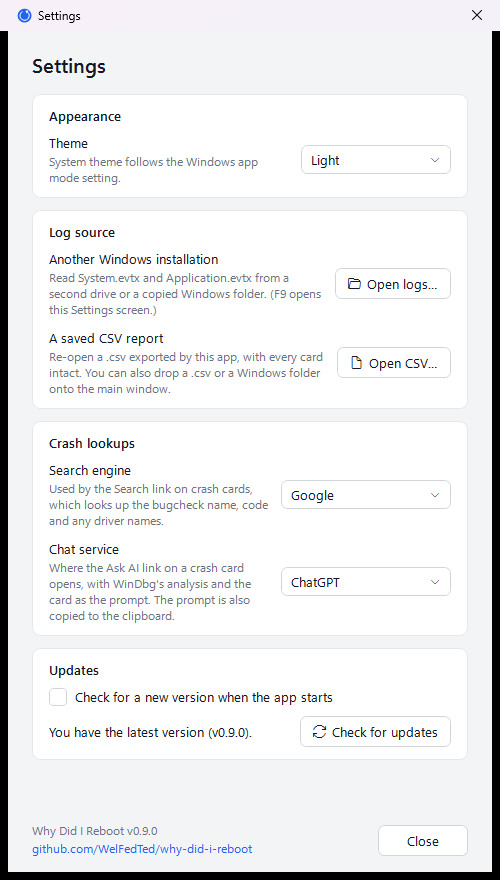
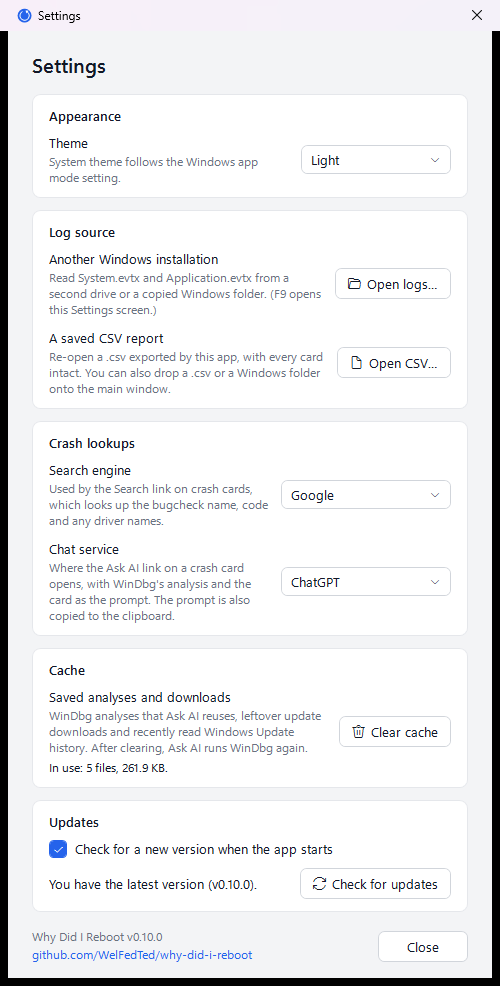
Add Clear cache to Settings
A new Cache section above Updates shows how much the app has cached and
a Clear cache button removes it:
- saved WinDbg analyses in every folder Ask AI may have used (Public,
  ProgramData, Temp, C:\), so Ask AI runs WinDbg again for each dump
- update downloads left in %TEMP%\WhyDidIReboot-update
- the in-memory Windows Update history (normally kept 10 minutes)
then reloads the list so cards are rebuilt with fresh update details.
Files still open (WinDbg writing a log) are kept and counted. The button
is disabled while Ask AI, an update or a load is running.

AppCache in Core does the measuring and clearing and has tests.
WinDbgLocator.AnalysisDirCandidates now lists the fallback folders for
both AnalysisWorkDir and the cache.

The Settings window sizes to its content, capped at the screen's work
area with the sections scrolling, since the new section made it taller
than the old fixed 880 px. README screenshot updated.

diff --git a/src/WhyDidIReboot/SettingsWindow.xaml b/src/WhyDidIReboot/SettingsWindow.xaml
@@ -2,7 +2,7 @@
         xmlns="http://schemas.microsoft.com/winfx/2006/xaml/presentation"
         xmlns:x="http://schemas.microsoft.com/winfx/2006/xaml"
         xmlns:local="clr-namespace:WhyDidIReboot"
-        Title="Settings" Width="500" Height="880" ResizeMode="NoResize" ShowInTaskbar="False"
+        Title="Settings" Width="500" SizeToContent="Height" ResizeMode="NoResize" ShowInTaskbar="False"
         WindowStartupLocation="CenterOwner" Background="{DynamicResource WindowBg}"
         FontFamily="Segoe UI Variable Text, Segoe UI" FontSize="13" TextOptions.TextFormattingMode="Display"
         UseLayoutRounding="True" SnapsToDevicePixels="True">
@@ -18,7 +18,9 @@
 
         <TextBlock Grid.Row="0" Text="Settings" FontSize="20" FontWeight="SemiBold" Foreground="{DynamicResource TextPrimary}" Margin="0,0,0,16"/>
 
-        <StackPanel Grid.Row="1">
+        <!-- Scrolls when the window is capped at the screen height (small screens, high display scaling). -->
+        <ScrollViewer Grid.Row="1" VerticalScrollBarVisibility="Auto" HorizontalScrollBarVisibility="Disabled" Focusable="False">
+        <StackPanel>
             <!-- Appearance -->
             <Border Background="{DynamicResource SurfaceBg}" BorderBrush="{DynamicResource SurfaceBorder}" BorderThickness="1" CornerRadius="8" Padding="16,12" Margin="0,0,0,12">
                 <StackPanel>
@@ -118,6 +120,32 @@
                 </StackPanel>
             </Border>
 
+            <!-- Cache -->
+            <Border Background="{DynamicResource SurfaceBg}" BorderBrush="{DynamicResource SurfaceBorder}" BorderThickness="1" CornerRadius="8" Padding="16,12" Margin="0,0,0,12">
+                <StackPanel>
+                    <TextBlock Text="Cache" FontWeight="SemiBold" Foreground="{DynamicResource TextPrimary}" Margin="0,0,0,10"/>
+                    <Grid>
+                        <Grid.ColumnDefinitions>
+                            <ColumnDefinition Width="*"/>
+                            <ColumnDefinition Width="Auto"/>
+                        </Grid.ColumnDefinitions>
+                        <StackPanel VerticalAlignment="Center" Margin="0,0,12,0">
+                            <TextBlock Text="Saved analyses and downloads" Foreground="{DynamicResource TextPrimary}"/>
+                            <TextBlock Text="WinDbg analyses that Ask AI reuses, leftover update downloads and recently read Windows Update history. After clearing, Ask AI runs WinDbg again." Foreground="{DynamicResource TextMuted}" FontSize="12" Margin="0,2,0,0" TextWrapping="Wrap"/>
+                            <TextBlock Text="{Binding CacheStatus}" Foreground="{DynamicResource TextPrimary}" FontSize="12" Margin="0,4,0,0" TextWrapping="Wrap"
+                                       AutomationProperties.AutomationId="CacheStatus"/>
+                        </StackPanel>
+                        <Button Grid.Column="1" Style="{StaticResource ToolButton}" Margin="0" VerticalAlignment="Center"
+                                Command="{Binding ClearCacheCommand}" AutomationProperties.Name="Clear cache">
+                            <StackPanel Orientation="Horizontal">
+                                <TextBlock Text="&#xE74D;" FontFamily="{StaticResource IconFont}" Margin="0,0,6,0" VerticalAlignment="Center"/>
+                                <TextBlock Text="Clear cache"/>
+                            </StackPanel>
+                        </Button>
+                    </Grid>
+                </StackPanel>
+            </Border>
+
             <!-- Updates -->
             <Border Background="{DynamicResource SurfaceBg}" BorderBrush="{DynamicResource SurfaceBorder}" BorderThickness="1" CornerRadius="8" Padding="16,12">
                 <StackPanel>
@@ -176,6 +204,7 @@
                 </StackPanel>
             </Border>
         </StackPanel>
+        </ScrollViewer>
 
         <!-- Footer -->
         <Grid Grid.Row="2" Margin="0,16,0,0">

diff --git a/src/WhyDidIReboot/Core/AppCache.cs b/src/WhyDidIReboot/Core/AppCache.cs
@@ -1,0 +1,91 @@
+using System.IO;
+
+namespace WhyDidIReboot.Core;
+
+/// <summary>
+/// The files the app keeps to save work: WinDbg analyses that Ask AI reuses, and downloads left over from
+/// updating. Settings → Clear cache measures and removes them. Nothing here is a setting or the user's data.
+/// </summary>
+public static class AppCache
+{
+    public sealed record Summary(int Files, long Bytes)
+    {
+        public static readonly Summary Empty = new(0, 0);
+    }
+
+    /// <summary>Where Update now downloads and unpacks a release before swapping it in.</summary>
+    public static string UpdateDownloadDir => Path.Combine(Path.GetTempPath(), "WhyDidIReboot-update");
+
+    /// <summary>Every cache folder: all places a WinDbg analysis may have been written, plus the update downloads.</summary>
+    public static IEnumerable<string> Folders() =>
+        WinDbgLocator.AnalysisDirCandidates().Append(UpdateDownloadDir).Distinct(StringComparer.OrdinalIgnoreCase);
+
+    /// <summary>Counts the files in the folders that exist.</summary>
+    public static Summary Measure(IEnumerable<string> folders)
+    {
+        int files = 0; long bytes = 0;
+        foreach (var file in FilesIn(folders))
+        {
+            try { bytes += new FileInfo(file).Length; files++; }
+            catch (IOException) { }
+            catch (UnauthorizedAccessException) { }
+        }
+        return new Summary(files, bytes);
+    }
+
+    /// <summary>
+    /// Deletes every file in the folders and any empty sub-folders, leaving the folders themselves.
+    /// Returns what was removed, and how many files could not be (open in WinDbg, or no permission).
+    /// </summary>
+    public static (Summary Removed, int Skipped) Clear(IEnumerable<string> folders)
+    {
+        int files = 0, skipped = 0; long bytes = 0;
+        var list = folders.ToList();
+        foreach (var file in FilesIn(list))
+        {
+            try
+            {
+                var size = new FileInfo(file).Length;
+                File.Delete(file);
+                files++; bytes += size;
+            }
+            catch (IOException) { skipped++; }
+            catch (UnauthorizedAccessException) { skipped++; }
+        }
+        foreach (var dir in list.Where(Directory.Exists))
+        {
+            // Deepest first, so a parent empties before it is tried.
+            foreach (var sub in SafeEnumerate(() => Directory.EnumerateDirectories(dir, "*", SearchOption.AllDirectories)).OrderByDescending(d => d.Length))
+            {
+                try { if (!Directory.EnumerateFileSystemEntries(sub).Any()) Directory.Delete(sub); }
+                catch (IOException) { }
+                catch (UnauthorizedAccessException) { }
+            }
+        }
+        return (new Summary(files, bytes), skipped);
+    }
+
+    /// <summary>"3 files, 30 KB".</summary>
+    public static string Describe(Summary s) =>
+        s.Files == 0 ? "nothing" : $"{s.Files} file{(s.Files == 1 ? "" : "s")}, {Size(s.Bytes)}";
+
+    public static string Size(long bytes) => bytes switch
+    {
+        < 1024 => $"{bytes} bytes",
+        < 1024 * 1024 => $"{bytes / 1024.0:0.#} KB",
+        < 1024L * 1024 * 1024 => $"{bytes / 1048576.0:0.#} MB",
+        _ => $"{bytes / 1073741824.0:0.##} GB",
+    };
+
+    private static IEnumerable<string> FilesIn(IEnumerable<string> folders) =>
+        folders.Where(Directory.Exists)
+               .SelectMany(dir => SafeEnumerate(() => Directory.EnumerateFiles(dir, "*", SearchOption.AllDirectories)))
+               .Distinct(StringComparer.OrdinalIgnoreCase);
+
+    private static List<string> SafeEnumerate(Func<IEnumerable<string>> list)
+    {
+        try { return list().ToList(); }
+        catch (IOException) { return new(); }
+        catch (UnauthorizedAccessException) { return new(); }
+    }
+}

diff --git a/tests/WhyDidIReboot.Tests/AppCacheTests.cs b/tests/WhyDidIReboot.Tests/AppCacheTests.cs
@@ -1,0 +1,86 @@
+using System.IO;
+using WhyDidIReboot.Core;
+using Xunit;
+
+namespace WhyDidIReboot.Tests;
+
+public class AppCacheTests
+{
+    [Fact]
+    public void Measure_and_clear_remove_every_cached_file_but_keep_the_folders()
+    {
+        var root = Path.Combine(Path.GetTempPath(), "wdir-cache-" + Guid.NewGuid().ToString("N"));
+        var analysis = Path.Combine(root, "analysis");
+        var updates = Path.Combine(root, "update");
+        try
+        {
+            Directory.CreateDirectory(Path.Combine(updates, "staged"));
+            File.WriteAllText(Path.Combine(analysis + "-missing-is-fine.txt"), "");   // not in a cache folder: untouched
+            Directory.CreateDirectory(analysis);
+            File.WriteAllText(Path.Combine(analysis, "a.1234abcd.analyze.txt"), new string('x', 1000));
+            File.WriteAllText(Path.Combine(updates, "WhyDidIReboot.exe"), new string('x', 2048));
+            File.WriteAllText(Path.Combine(updates, "staged", "WhyDidIReboot.dll"), "dll");
+            var folders = new[] { analysis, updates, Path.Combine(root, "does-not-exist") };
+
+            Assert.Equal(new AppCache.Summary(3, 3051), AppCache.Measure(folders));
+
+            var (removed, skipped) = AppCache.Clear(folders);
+            Assert.Equal(new AppCache.Summary(3, 3051), removed);
+            Assert.Equal(0, skipped);
+            Assert.Equal(AppCache.Summary.Empty, AppCache.Measure(folders));
+            Assert.True(Directory.Exists(analysis));
+            Assert.True(Directory.Exists(updates));
+            Assert.False(Directory.Exists(Path.Combine(updates, "staged")));
+            Assert.True(File.Exists(analysis + "-missing-is-fine.txt"));
+        }
+        finally
+        {
+            File.Delete(analysis + "-missing-is-fine.txt");
+            Directory.Delete(root, recursive: true);
+        }
+    }
+
+    [Fact]
+    public void A_file_held_open_is_kept_and_counted_as_skipped()
+    {
+        var dir = Path.Combine(Path.GetTempPath(), "wdir-cache-" + Guid.NewGuid().ToString("N"));
+        Directory.CreateDirectory(dir);
+        try
+        {
+            var busy = Path.Combine(dir, "busy.analyze.txt");
+            File.WriteAllText(busy, "open in WinDbg");
+            File.WriteAllText(Path.Combine(dir, "done.analyze.txt"), "done");
+            using (new FileStream(busy, FileMode.Open, FileAccess.Read, FileShare.None))
+            {
+                var (removed, skipped) = AppCache.Clear(new[] { dir });
+                Assert.Equal(1, removed.Files);
+                Assert.Equal(1, skipped);
+            }
+            Assert.True(File.Exists(busy));
+        }
+        finally
+        {
+            Directory.Delete(dir, recursive: true);
+        }
+    }
+
+    [Fact]
+    public void Cache_folders_cover_every_analysis_fallback_and_the_update_downloads()
+    {
+        var folders = AppCache.Folders().ToList();
+        Assert.Contains(AppCache.UpdateDownloadDir, folders);
+        Assert.All(WinDbgLocator.AnalysisDirCandidates(), d => Assert.Contains(d, folders));
+        var work = WinDbgLocator.AnalysisWorkDir();
+        if (work is not null) Assert.Contains(work, folders, StringComparer.OrdinalIgnoreCase);
+    }
+
+    [Theory]
+    [InlineData(0, 0, "nothing")]
+    [InlineData(1, 500, "1 file, 500 bytes")]
+    [InlineData(3, 30720, "3 files, 30 KB")]
+    [InlineData(2, 5 * 1048576L + 524288, "2 files, 5.5 MB")]
+    public void Describe_reads_naturally(int files, long bytes, string expected)
+    {
+        Assert.Equal(expected, AppCache.Describe(new AppCache.Summary(files, bytes)));
+    }
+}

diff --git a/src/WhyDidIReboot/MainViewModel.cs b/src/WhyDidIReboot/MainViewModel.cs
@@ -273,7 +273,7 @@ public sealed class MainViewModel : INotifyPropertyChanged
             var asset = UpdateInstaller.ChooseAsset(_latest, frameworkDependent)
                 ?? throw new InvalidOperationException($"Release {_latest.Tag} has no {(frameworkDependent ? UpdateInstaller.FrameworkDependentAsset : UpdateInstaller.SelfContainedAsset)} asset.");
 
-            var temp = System.IO.Path.Combine(System.IO.Path.GetTempPath(), "WhyDidIReboot-update");
+            var temp = AppCache.UpdateDownloadDir;
             System.IO.Directory.CreateDirectory(temp);
             var download = System.IO.Path.Combine(temp, asset.Name);
 
@@ -532,6 +532,50 @@ public sealed class MainViewModel : INotifyPropertyChanged
 
     public ICommand CancelAskAiCommand => _cancelAskAi ??= new RelayCommand(_ => _askAiCts?.Cancel(), _ => IsAskingAi);
     private RelayCommand? _cancelAskAi;
+
+    // ---------------------------------------------------------------- cache
+
+    private string _cacheStatus = "";
+    private bool _isClearingCache;
+
+    /// <summary>What Settings says about the cache: its size, or what the last Clear cache removed.</summary>
+    public string CacheStatus { get => _cacheStatus; private set { _cacheStatus = value; OnPropertyChanged(); } }
+
+    /// <summary>Measures the cache folders for the Settings screen.</summary>
+    public async Task RefreshCacheStatusAsync()
+    {
+        var size = await Task.Run(() => AppCache.Measure(AppCache.Folders()));
+        CacheStatus = size.Files == 0 ? "The cache is empty." : $"In use: {AppCache.Describe(size)}.";
+    }
+
+    /// <summary>
+    /// Deletes saved WinDbg analyses and leftover update downloads, forgets the Windows Update history read
+    /// in the last few minutes, and reloads the list. Ask AI runs WinDbg again for every dump afterwards.
+    /// </summary>
+    public ICommand ClearCacheCommand => _clearCache ??= new RelayCommand(async _ => await ClearCacheAsync(),
+        _ => !_isClearingCache && !IsAskingAi && !IsUpdating && !IsBusy);
+    private RelayCommand? _clearCache;
+
+    public async Task ClearCacheAsync()
+    {
+        _isClearingCache = true;
+        CommandManager.InvalidateRequerySuggested();
+        try
+        {
+            CacheStatus = "Clearing…";
+            var (removed, skipped) = await Task.Run(() => AppCache.Clear(AppCache.Folders()));
+            WindowsUpdateHistory.Invalidate();
+            CacheStatus = (removed.Files == 0 ? "Cleared: nothing was cached." : $"Cleared {AppCache.Describe(removed)}.") +
+                          (skipped > 0 ? $" {skipped} file{(skipped == 1 ? " was" : "s were")} in use and kept." : "");
+        }
+        finally
+        {
+            _isClearingCache = false;
+            CommandManager.InvalidateRequerySuggested();
+        }
+        // Re-read the logs so update details come fresh from Windows Update and every card is rebuilt.
+        await RefreshAsync();
+    }
 
     public async Task AskAiAsync(RebootEntry entry, bool fresh = false)
     {

diff --git a/src/WhyDidIReboot/Core/WinDbgLocator.cs b/src/WhyDidIReboot/Core/WinDbgLocator.cs
@@ -95,16 +95,22 @@ public static class WinDbgLocator
     /// </summary>
     public static string? AnalysisWorkDir(Func<string, bool>? probe = null, Func<string, string?>? env = null)
     {
-        env ??= Environment.GetEnvironmentVariable;
         probe ??= dir =>
         {
             try { Directory.CreateDirectory(dir); File.WriteAllText(Path.Combine(dir, ".probe"), ""); File.Delete(Path.Combine(dir, ".probe")); return true; }
             catch { return false; }
         };
-        var candidates = new[] { env("PUBLIC"), env("ProgramData"), env("TEMP"), env("TMP"), @"C:\" }
+        return AnalysisDirCandidates(env).FirstOrDefault(dir => !dir.Contains(' ') && probe(dir));
+    }
+
+    /// <summary>Every folder <see cref="AnalysisWorkDir"/> may pick, in order, whether or not it exists.</summary>
+    public static IEnumerable<string> AnalysisDirCandidates(Func<string, string?>? env = null)
+    {
+        env ??= Environment.GetEnvironmentVariable;
+        return new[] { env("PUBLIC"), env("ProgramData"), env("TEMP"), env("TMP"), @"C:\" }
             .Where(root => !string.IsNullOrWhiteSpace(root))
-            .Select(root => Path.Combine(root!, "WhyDidIReboot", "analysis"));
-        return candidates.FirstOrDefault(dir => !dir.Contains(' ') && probe(dir));
+            .Select(root => Path.Combine(root!, "WhyDidIReboot", "analysis"))
+            .Distinct(StringComparer.OrdinalIgnoreCase);
     }
 
     /// <summary>

diff --git a/src/WhyDidIReboot/Core/WindowsUpdateHistory.cs b/src/WhyDidIReboot/Core/WindowsUpdateHistory.cs
@@ -20,6 +20,12 @@ public static class WindowsUpdateHistory
     private static Dictionary<string, UpdateDetails>? _cache;
     private static DateTime _cachedAt;
 
+    /// <summary>Forgets the history read in the last few minutes, so the next load asks Windows Update again.</summary>
+    public static void Invalidate()
+    {
+        lock (Gate) _cache = null;
+    }
+
     /// <summary>
     /// Returns history keyed by KB number ("KB5094126") and, for entries without one such as driver
     /// updates, by the exact title. Empty (never null) if the API is unavailable.

diff --git a/src/WhyDidIReboot/SettingsWindow.xaml.cs b/src/WhyDidIReboot/SettingsWindow.xaml.cs
@@ -8,7 +8,10 @@ public partial class SettingsWindow : Window
     {
         InitializeComponent();
         DataContext = vm;
+        // Sized to its content, but never taller than the screen; the sections scroll instead.
+        MaxHeight = SystemParameters.WorkArea.Height;
         SourceInitialized += (_, _) => ThemeManager.ApplyTitleBar(this);
+        _ = vm.RefreshCacheStatusAsync();
         PreviewKeyDown += (_, e) =>
         {
             // F9 opens Settings from the main window; pressing it again here closes them.

diff --git a/README.md b/README.md
@@ -14,7 +14,7 @@ Dark mode follows the Windows setting, or can be forced from Settings:
 
 ![dark mode screenshot](docs/screenshot-dark.png)
 
-Settings (the cog in the header) holds the theme picker, an update check against GitHub Releases, and the version:
+Settings (the cog in the header) holds the theme picker, the log source, the search engine and chat service for crash lookups, a *Clear cache* button, an update check against GitHub Releases, and the version:
 
 ![settings dialog](docs/settings.png)
 
@@ -33,7 +33,7 @@ Settings (the cog in the header) holds the theme picker, an update check against
 - **Driver labels**: known driver file names are explained inline, e.g. `nvlddmkm.sys (NVIDIA kernel-mode display driver)`.
 - **Debug in WinDbg**: crash cards whose dump file still exists offer to open it in WinDbg with `!analyze -v` queued. If WinDbg isn't installed, the app offers to install it through winget and then opens the dump.
 - **Search the web**: a "Search Google" link (or Bing, DuckDuckGo, Brave, Startpage, chosen in Settings) looks up the bugcheck name and code together with any driver names on the card.
-- **Ask AI**: runs `!analyze -v` through WinDbg, distils the output (probable cause, module, bucket id, stack), adds the card's text, copies the prompt to the clipboard and opens ChatGPT, Microsoft Copilot, Perplexity or Claude (your choice in Settings) with the prompt prefilled. The analysis is saved, so pressing Ask AI again for the same dump skips WinDbg (hold Shift to re-run it).
+- **Ask AI**: runs `!analyze -v` through WinDbg, distils the output (probable cause, module, bucket id, stack), adds the card's text, copies the prompt to the clipboard and opens ChatGPT, Microsoft Copilot, Perplexity or Claude (your choice in Settings) with the prompt prefilled. The analysis is saved, so pressing Ask AI again for the same dump skips WinDbg (hold Shift to re-run it, or use Settings → *Clear cache* to drop every saved analysis).
 - **Right-click any card** for the same actions: copy, open dump folder, debug, search, ask AI.
 - **Any period**: last 7 / 30 / 90 days, last year, everything, or a custom from/to range. Headless: `--days N`, `--days all`, or `--from yyyy-MM-dd --to yyyy-MM-dd`.
 - **Logs from another Windows installation**: Settings (the cog, or **F9**) → *Open logs…*, then pick a second drive, its Windows folder, or a copied `winevt\Logs` folder. Crash dump paths are checked on that drive. Also `--source <folder>` on the command line, or drop the folder onto the window.

diff --git a/CHANGELOG.md b/CHANGELOG.md
@@ -10,6 +10,7 @@ When a `vX.Y.Z` tag is pushed, the release workflow copies the matching `## [X.Y
 
 ### Added
 - **Ask AI reuses its WinDbg analysis.** Pressing Ask AI again for the same dump skips WinDbg and goes straight to the chat, using the saved `!analyze -v` log. The saved log belongs to that exact file (path, size and time), so a dump rewritten by a later crash is analysed afresh, and an analysis made without working symbols is never reused. Hold **Shift** while pressing Ask AI to run WinDbg again.
+- **Clear cache** in Settings, above *Updates*. It shows how much is cached and removes the saved WinDbg analyses (so Ask AI runs WinDbg again for every dump) and any update downloads left in the temp folder, forgets the Windows Update history read in the last few minutes, then reloads the list. Files still open in WinDbg are kept and reported.
 
 ### Fixed
 - Unexpected-shutdown records (EventLog 6008) now give crash cards their shutdown time, downtime and previous uptime. Windows wraps the date in invisible left-to-right marks, which made it unreadable.
@@ -21,6 +22,7 @@ When a `vX.Y.Z` tag is pushed, the release workflow copies the matching `## [X.Y
 ### Changed
 - Faster loading on long logs: records from unrelated providers are skipped before they are parsed, each boot's records are found by binary search instead of rescanning the whole log, and the list is filtered and grouped once per load instead of once per card.
 - Filter presets, search and chip counts do less repeated work, and the app no longer rebuilds every card when an unrelated Windows setting changes.
+- The Settings window fits its content and scrolls when the screen is too short for it, instead of having a fixed height.
 
 ## [0.10.0] - 2026-09-20
 
